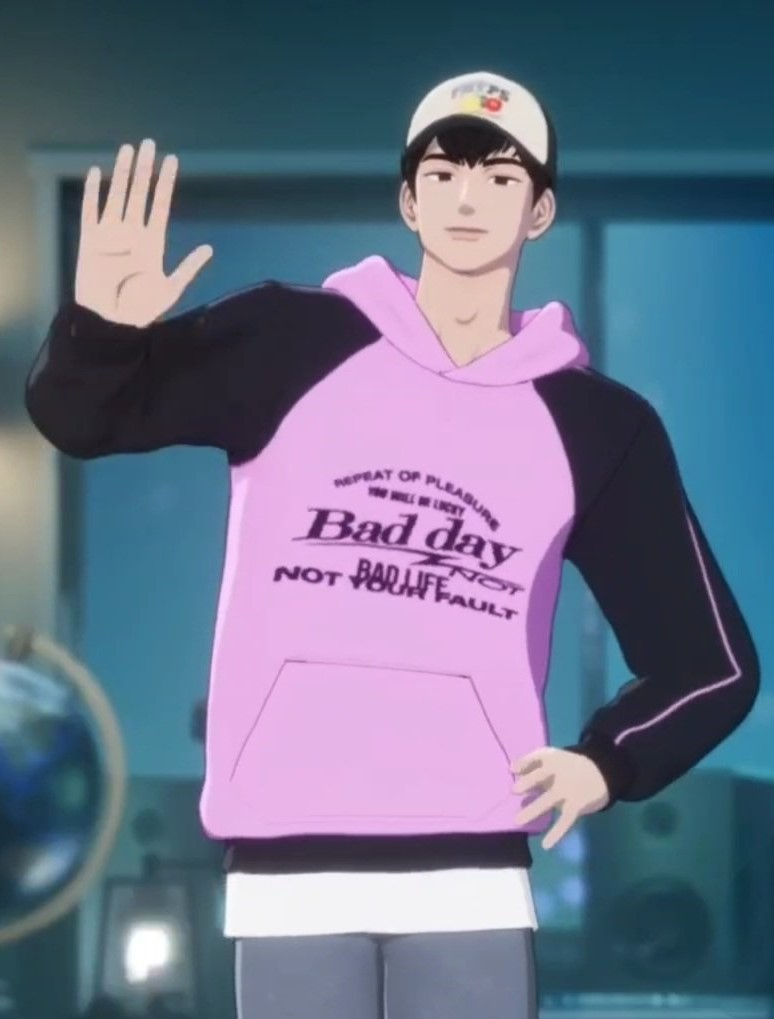
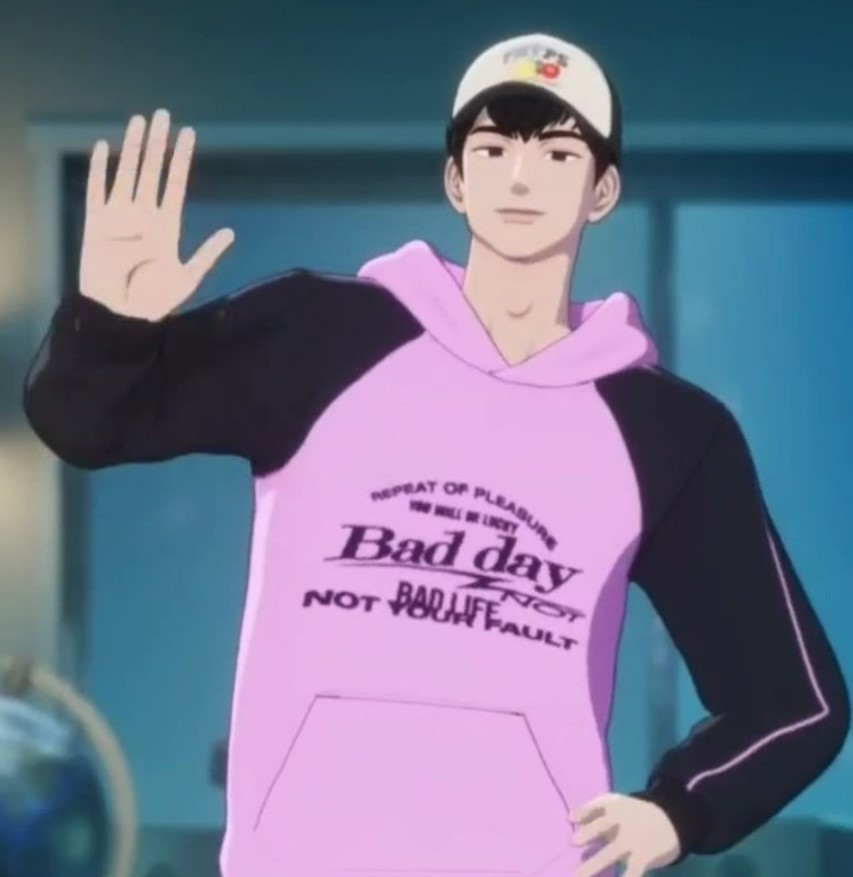
플레이브 html, css, image 수정

diff --git a/plave_member/하민.html b/plave_member/하민.html
@@ -67,8 +67,9 @@
     <hr>
     <div class="Button_container">
 
-      <a href="https://www.musinsa.com/app/goods/2999686"><button class="custom-button">하민의 "모자" 보러가기</button></a>
-
+      <a href="https://www.musinsa.com/app/goods/2487576"><button class="custom-button">하민의 "모자" 보러가기</button></a>
+      <a href="https://www.musinsa.com/app/goods/2999686"><button class="custom-button">하민의 "후드" 보러가기</button></a>
+      
       
     </div>
   </div>

diff --git a/plave_member/은호.html b/plave_member/은호.html
@@ -55,7 +55,7 @@
     <hr>
     <div class="Button_container">
 
-      <a href="https://wiisnt.co.kr/product/detail.html?product_no=7583&cate_no=118&display_group=1"><button class="custom-button">조의 "가방" 보러가기</button></a>
+      <a href="https://wiisnt.co.kr/product/detail.html?product_no=7583&cate_no=118&display_group=1"><button class="custom-button">은호의 "티" 보러가기</button></a>
 
     </div>
   </div>

diff --git a/css/&team_member.css b/css/&team_member.css
@@ -5,7 +5,7 @@ header img{
     height: auto;
 }
 main img {
-    width: 500px;
+    width: 400px;
     height: 520px;
   }
   
@@ -20,6 +20,10 @@ main img {
   
 #wear img {
     margin: 40px; /* 이미지 사이에 간격을 설정합니다 */
+}
+a link{
+     text-decoration: none;
+     color:black;
 }
   
 .item1,
